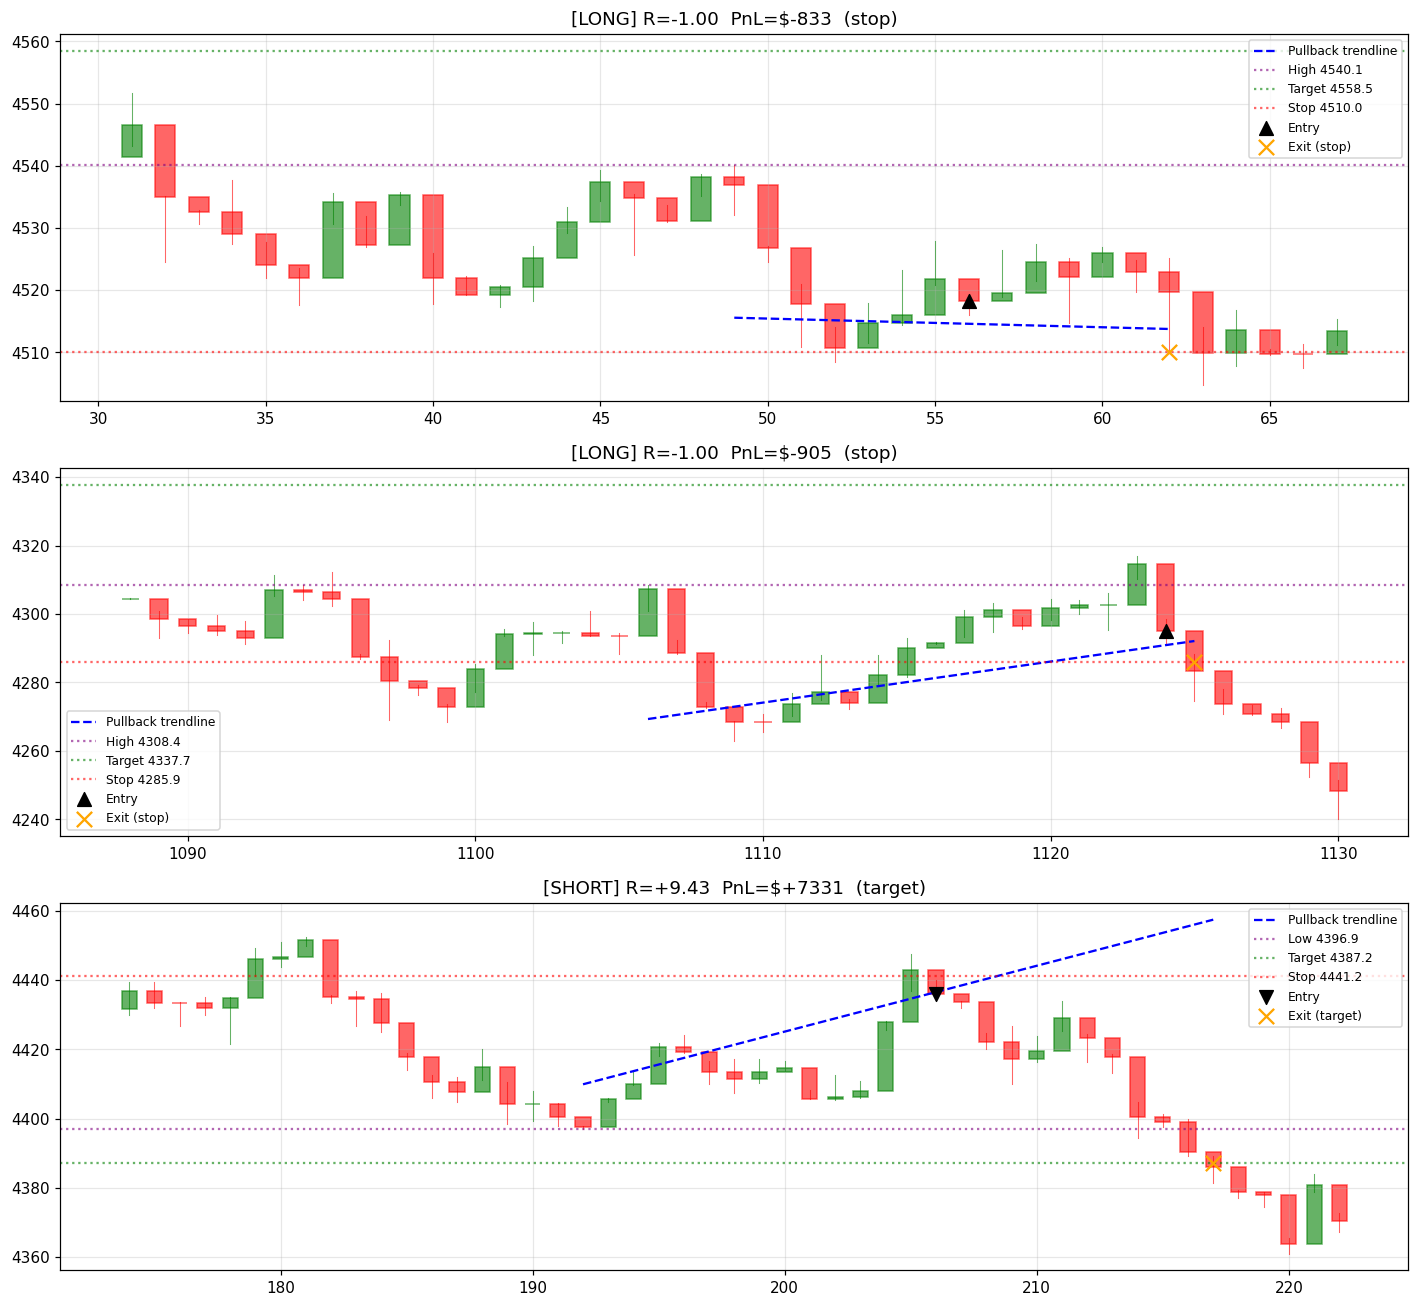
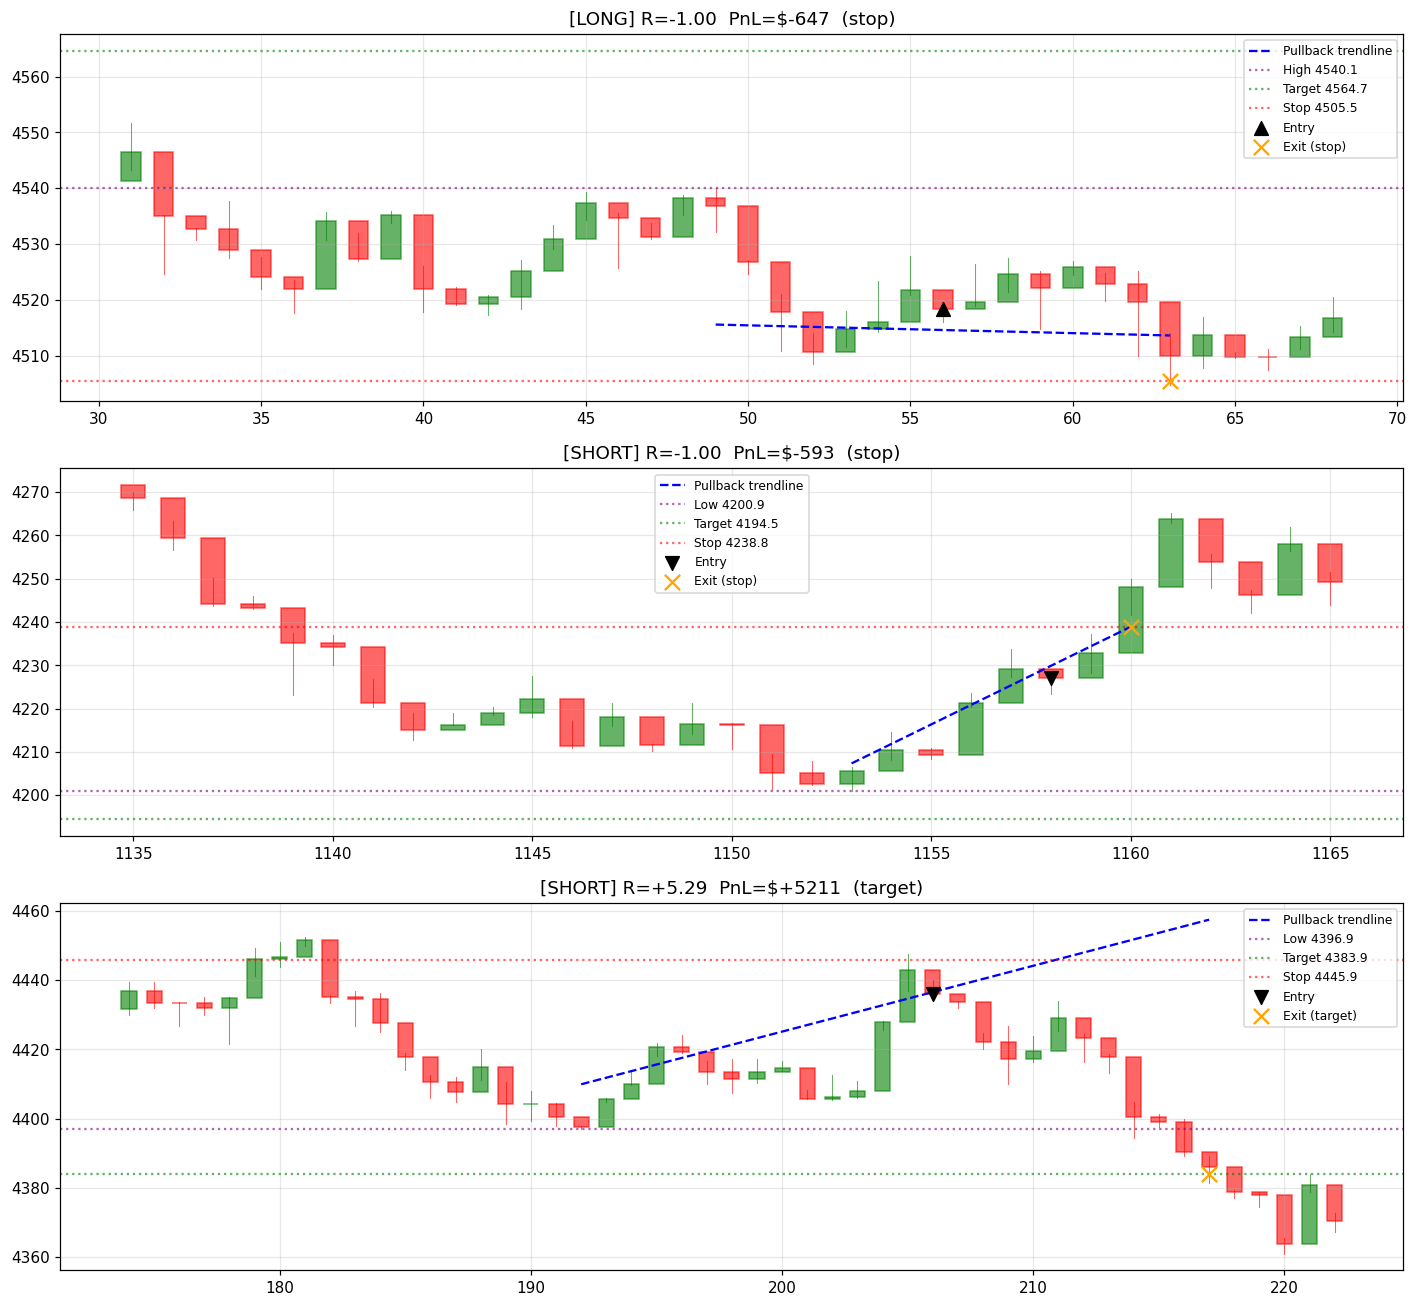
Widen stop, raise target, add min R:R filter to improve win rate
Three parameter changes to address 75% stop-out rate on real data:
- stop_buffer_atr 0.5 -> 1.0: wider stop reduces whipsaw exits on ES
- target_scale 0.75 -> 1.0: full measured move as target now that stop
  is wider and R:R geometry is healthier
- min_reward_risk = 1.5: skip any setup where target < 1.5x risk at entry,
  filtering out poor-geometry trades before they're taken

Synthetic baseline: 90 trades, 28% WR, 2.61R avg win, flat expectancy.

https://claude.ai/code/session_01RPqrcd3oRb5PaVE6Pknf8g

diff --git a/little_rzy_backtest.py b/little_rzy_backtest.py
@@ -46,9 +46,10 @@ class Params:
     entry_touch_tolerance: float = 0.001  # 0.1% counts as "touch"
 
     # Risk management
-    stop_buffer_atr: float = 0.5      # stop distance beyond trendline
+    stop_buffer_atr: float = 1.0       # stop distance beyond trendline (wider = fewer whipsaws)
     risk_per_trade: float = 0.01      # 1% account risk per trade
-    target_scale: float = 0.75        # target = impulse_extreme ± measured * target_scale
+    target_scale: float = 1.0         # target = impulse_extreme ± measured * target_scale
+    min_reward_risk: float = 1.5      # skip trade if target is less than 1.5R away at entry
 
     # Filters
     use_bollinger_filter: bool = True
@@ -503,6 +504,11 @@ def simulate(df: pd.DataFrame, structures: list[RZYStructure]) -> list[Trade]:
             risk_per_unit = entry_price - stop
 
         if risk_per_unit <= 0:
+            continue
+
+        # Skip if the target isn't at least min_reward_risk × risk away
+        reward = abs(s.target_price - entry_price)
+        if reward / risk_per_unit < P.min_reward_risk:
             continue
 
         trade = Trade(
